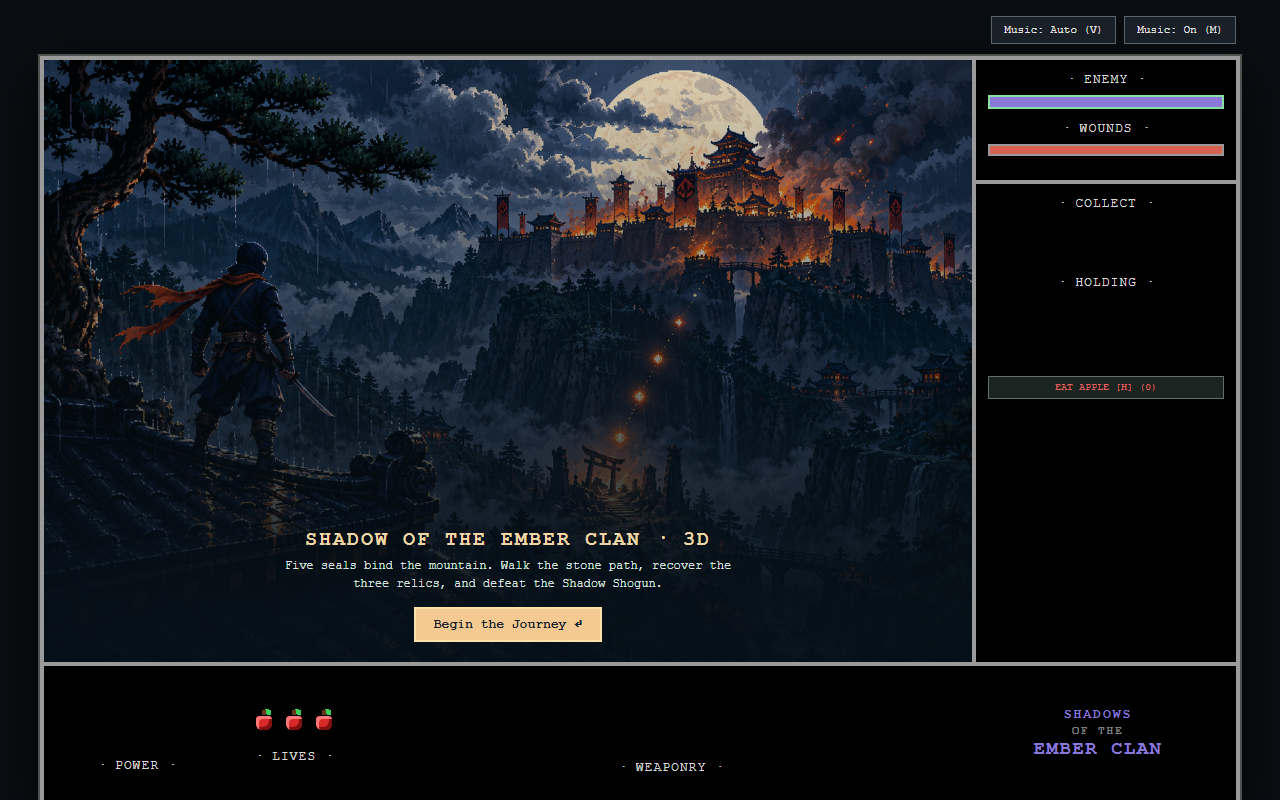
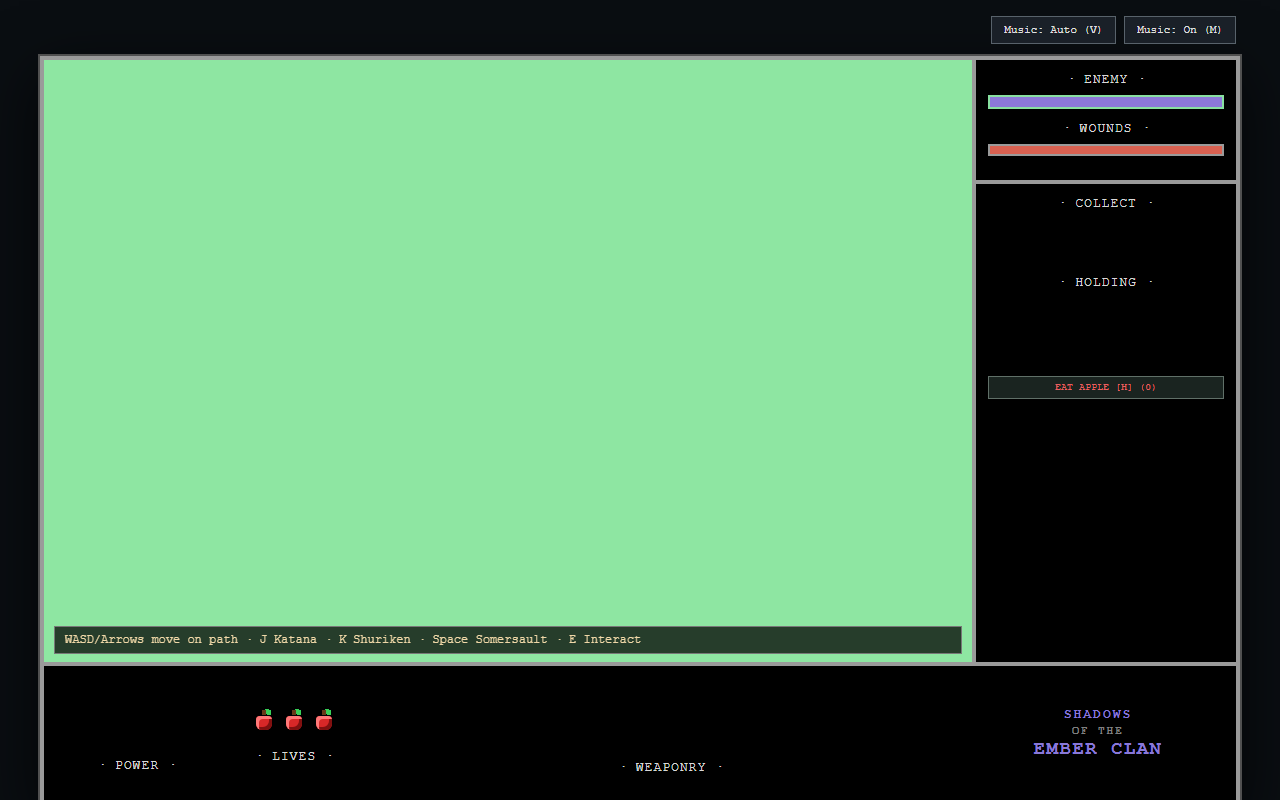
Show actual gameplay screenshot in README

diff --git a/README.md b/README.md
@@ -4,11 +4,7 @@ A modern 3D isometric rebuild of **The Last Ninja** with a twist — blending cl
 
 ## Demo
 
-![Title Screen](docs/title-screen.png)
-
 ![Wastelands Isometric Gameplay](docs/gameplay-wastelands.png)
-
-![Kneeling Prayer at the Monk Shrine](docs/shrine-prayer.png)
 
 ## Play
 
